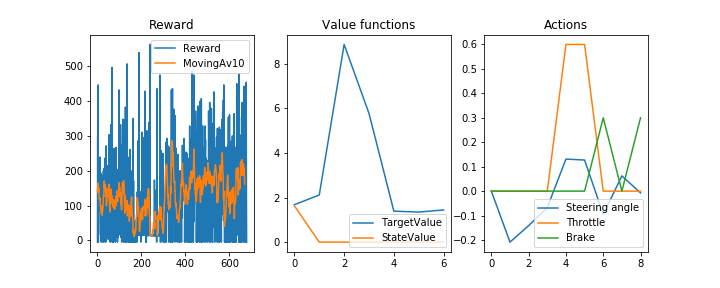
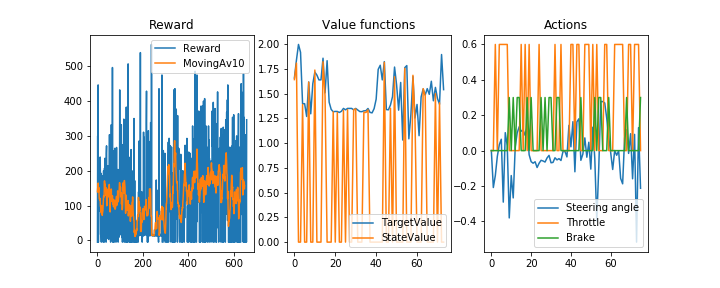
TargetGraph

diff --git a/Pendulum_QL.py b/Pendulum_QL.py
@@ -1,7 +1,7 @@
 import numpy as np
 import gym
 import CarConfig
-from keras.layers import Dense, Flatten, Input
+from keras.layers import Dense, Flatten, Input, Dropout
 from keras.models import Model
 import keras.optimizers as Kopt
 import logging
@@ -21,12 +21,14 @@ HUBER_LOSS_DELTA = 1.0
 
 MAX_REWARD = 2000
 MAX_EPSILON = 1
-MIN_EPSILON = 0.05       
+MIN_EPSILON = 0.1       
 EXPLORATION_STOP = 1000   # at this step epsilon will be MIN_EPSILON
 LAMBDA = - math.log(0.01) / EXPLORATION_STOP  # speed of decay fn of episodes of learning agent
+SARSA = True
 
 num_episodes = 100000
 alpha = 0.1
+gamma = 0.2
     
 #action_buffer = np.arange(-2, 2.4, 0.4)
 action_buffer = np.array([-2,2])
@@ -64,8 +66,9 @@ def build_model(input_dim, output_dim):
     x = Flatten()(action_input)
     x = Dense(32, activation="relu")(x)
     x = Dense(32, activation="relu")(x)
+    #x = Dropout(0.1, seed=2)(x)
     x = Dense(16, activation="sigmoid")(x)
-    x = Dense(output_dim, activation="linear")(x)
+    x = Dense(output_dim, activation="sigmoid")(x)
     
     model = Model(inputs=action_input, outputs=x)
     
@@ -126,10 +129,19 @@ def learn(env):
             
             T = len(X)
             G = np.sum(R)
-            for t in range(T):
+            for t in range(T-1):
                 a = A[t]
-                Q[t][a] = (1-alpha) * Q[t][a] + alpha * (G/MAX_REWARD)
-            
+                a1 = A[t+1]
+                
+                if SARSA:
+                    q = Q[t+1][a1] 
+                else:
+                    # Q-learning
+                    q = np.max(Q[t][:])
+                
+                #Q[t][a] = (1-alpha) * Q[t][a] + alpha * (G/MAX_REWARD)
+                Q[t][a] = (1-alpha) * Q[t][a] + alpha * ( (G/MAX_REWARD) + gamma*q)
+                
             obs = np.asarray(X)
             obs = obs[:,np.newaxis,:]
             model.fit(obs, np.asarray(Q), verbose=0, batch_size=T)
